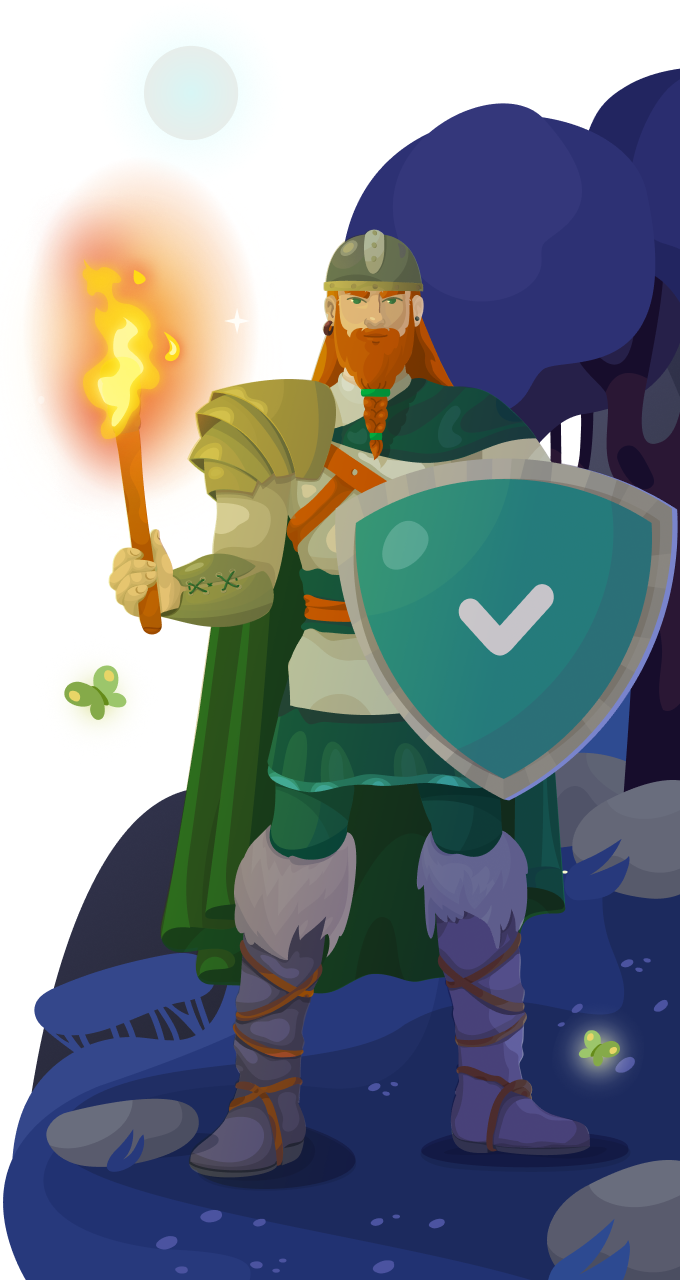
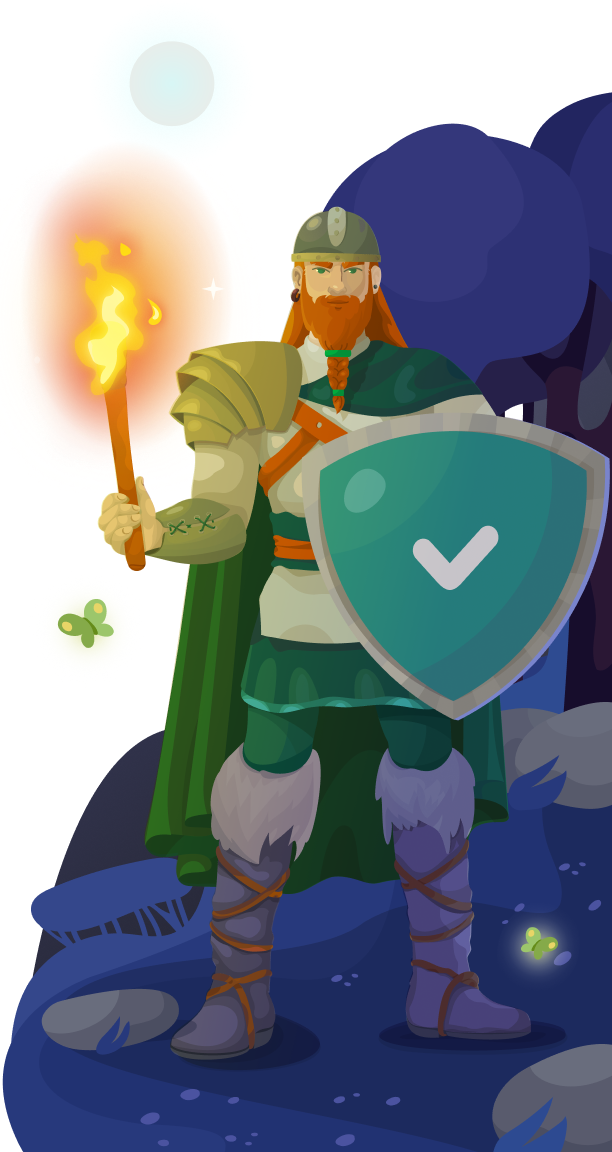
Pull request 714: AG-49984: Update paywall modal size and images
Merge in SCITER/adguard-mini from 
AG-49984-update-paywall to master

Squashed commit of the following:

commit 2ce4d3715388c4e6e4f404de2d001079190aa0cb
Merge: 65e33c58 68b506d3
Author: Vladislav Abdulmyanov <v.abdulmyanov@adguard.com>
Date:   Tue Jan 20 16:33:03 2026 +0300

    Merge branch 'master' into AG-49984-update-paywall

commit 65e33c585604aa9943b0a7f8831a3232b6639947
Author: Vladislav Abdulmyanov <v.abdulmyanov@adguard.com>
Date:   Tue Jan 20 16:17:04 2026 +0300

    AG-49984: Update paywall modal size and images

diff --git a/AdguardMini/sciter-ui/modules/settings/components/Paywall/Paywall.tsx b/AdguardMini/sciter-ui/modules/settings/components/Paywall/Paywall.tsx
@@ -3,7 +3,7 @@
 // SPDX-License-Identifier: GPL-3.0-or-later
 
 import { observer } from 'mobx-react-lite';
-import { useEffect, useState } from 'preact/hooks';
+import { useState } from 'preact/hooks';
 
 import { getTdsLink, TDS_PARAMS } from 'Common/utils/links';
 import { RouteName } from 'Modules/settings/store/modules';
@@ -54,21 +54,6 @@ function PaywallComponent() {
     const [showAlreadyPurchasedFlowModal, setShowAlreadyPurchasedFlowModal] = useState(false);
     const [showTermsAndConditionsModal, setShowTermsAndConditionsModal] = useState(false);
 
-    const { width, height } = document.body.getBoundingClientRect();
-    const [size, setSize] = useState<[number, number]>([width, height]);
-
-    useEffect(() => {
-        const handler = () => {
-            const { width: newWidth, height: newHeight } = document.body.getBoundingClientRect();
-            setSize([newWidth, newHeight]);
-        };
-
-        document.body.addEventListener('sizechange', handler);
-        return () => {
-            document.body.removeEventListener('sizechange', handler);
-        };
-    }, []);
-
     const getBackgroundImageClassName = () => {
         if (isMASReleaseVariant) {
             return s.Paywall_bg__defaultImage;
@@ -101,8 +86,6 @@ function PaywallComponent() {
         return translate('settings.paywall.title');
     };
 
-    const minSized = size[0] === MIN_WIDTH && size[1] === MIN_HEIGHT;
-
     const isRightSide = (isTrialExpired || isLicenseExpired) && !isMASReleaseVariant;
 
     const offer = appStoreSubscriptions?.result?.promoInfo;
@@ -113,7 +96,7 @@ function PaywallComponent() {
 
     return (
         <div className={s.Paywall}>
-            <div className={cx(s.Paywall_bg, getBackgroundImageClassName(), minSized && s.Paywall_bg__minSized)}>
+            <div className={cx(s.Paywall_bg, getBackgroundImageClassName())}>
                 <Icon
                     className={s.Paywall_cross}
                     icon="cross"
